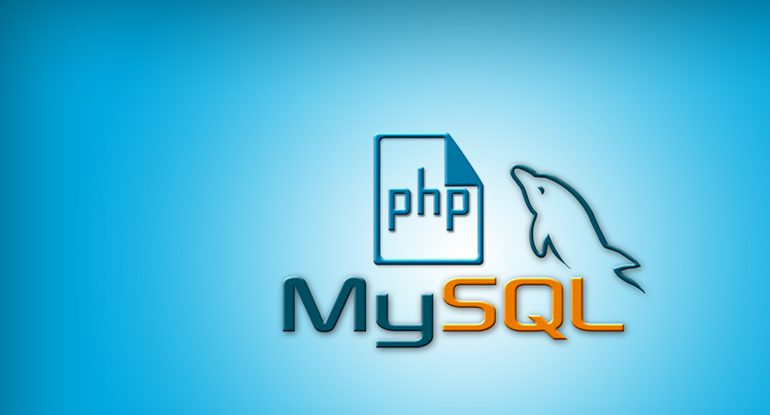
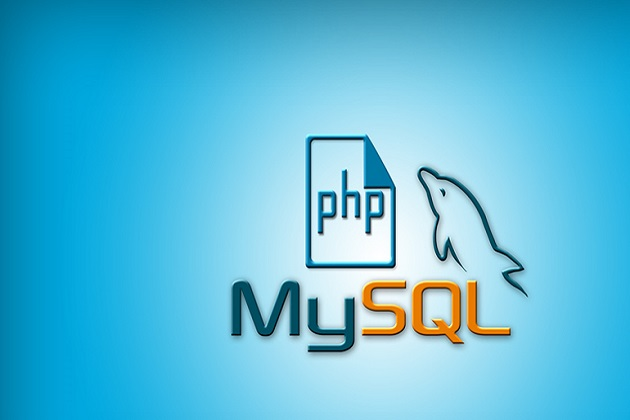
RESPONSIVE IMAGES

diff --git a/styles.css b/styles.css
@@ -178,8 +178,8 @@ p {
 }
 
 .zoomIn img {
-    width: 500px;
-    height: 350px;
+    width: 100%;
+    height: auto;
     -webkit-transition: all 0.5s ease;
        -moz-transition: all 0.5s ease;
         -ms-transition: all 0.5s ease;
@@ -193,15 +193,15 @@ p {
 }
 
 .zoomIn img:hover {
-    width: 525px;
-    height: 365px;
+    width: 125%;
+    height: auto;
   }
 
 .frame {
     margin-top: 40px;
     margin-bottom: 40px;
-    width: 500px;
-    height: 350px;
+    width: 100%;
+    height: auto;
     overflow: hidden;
   }
 
